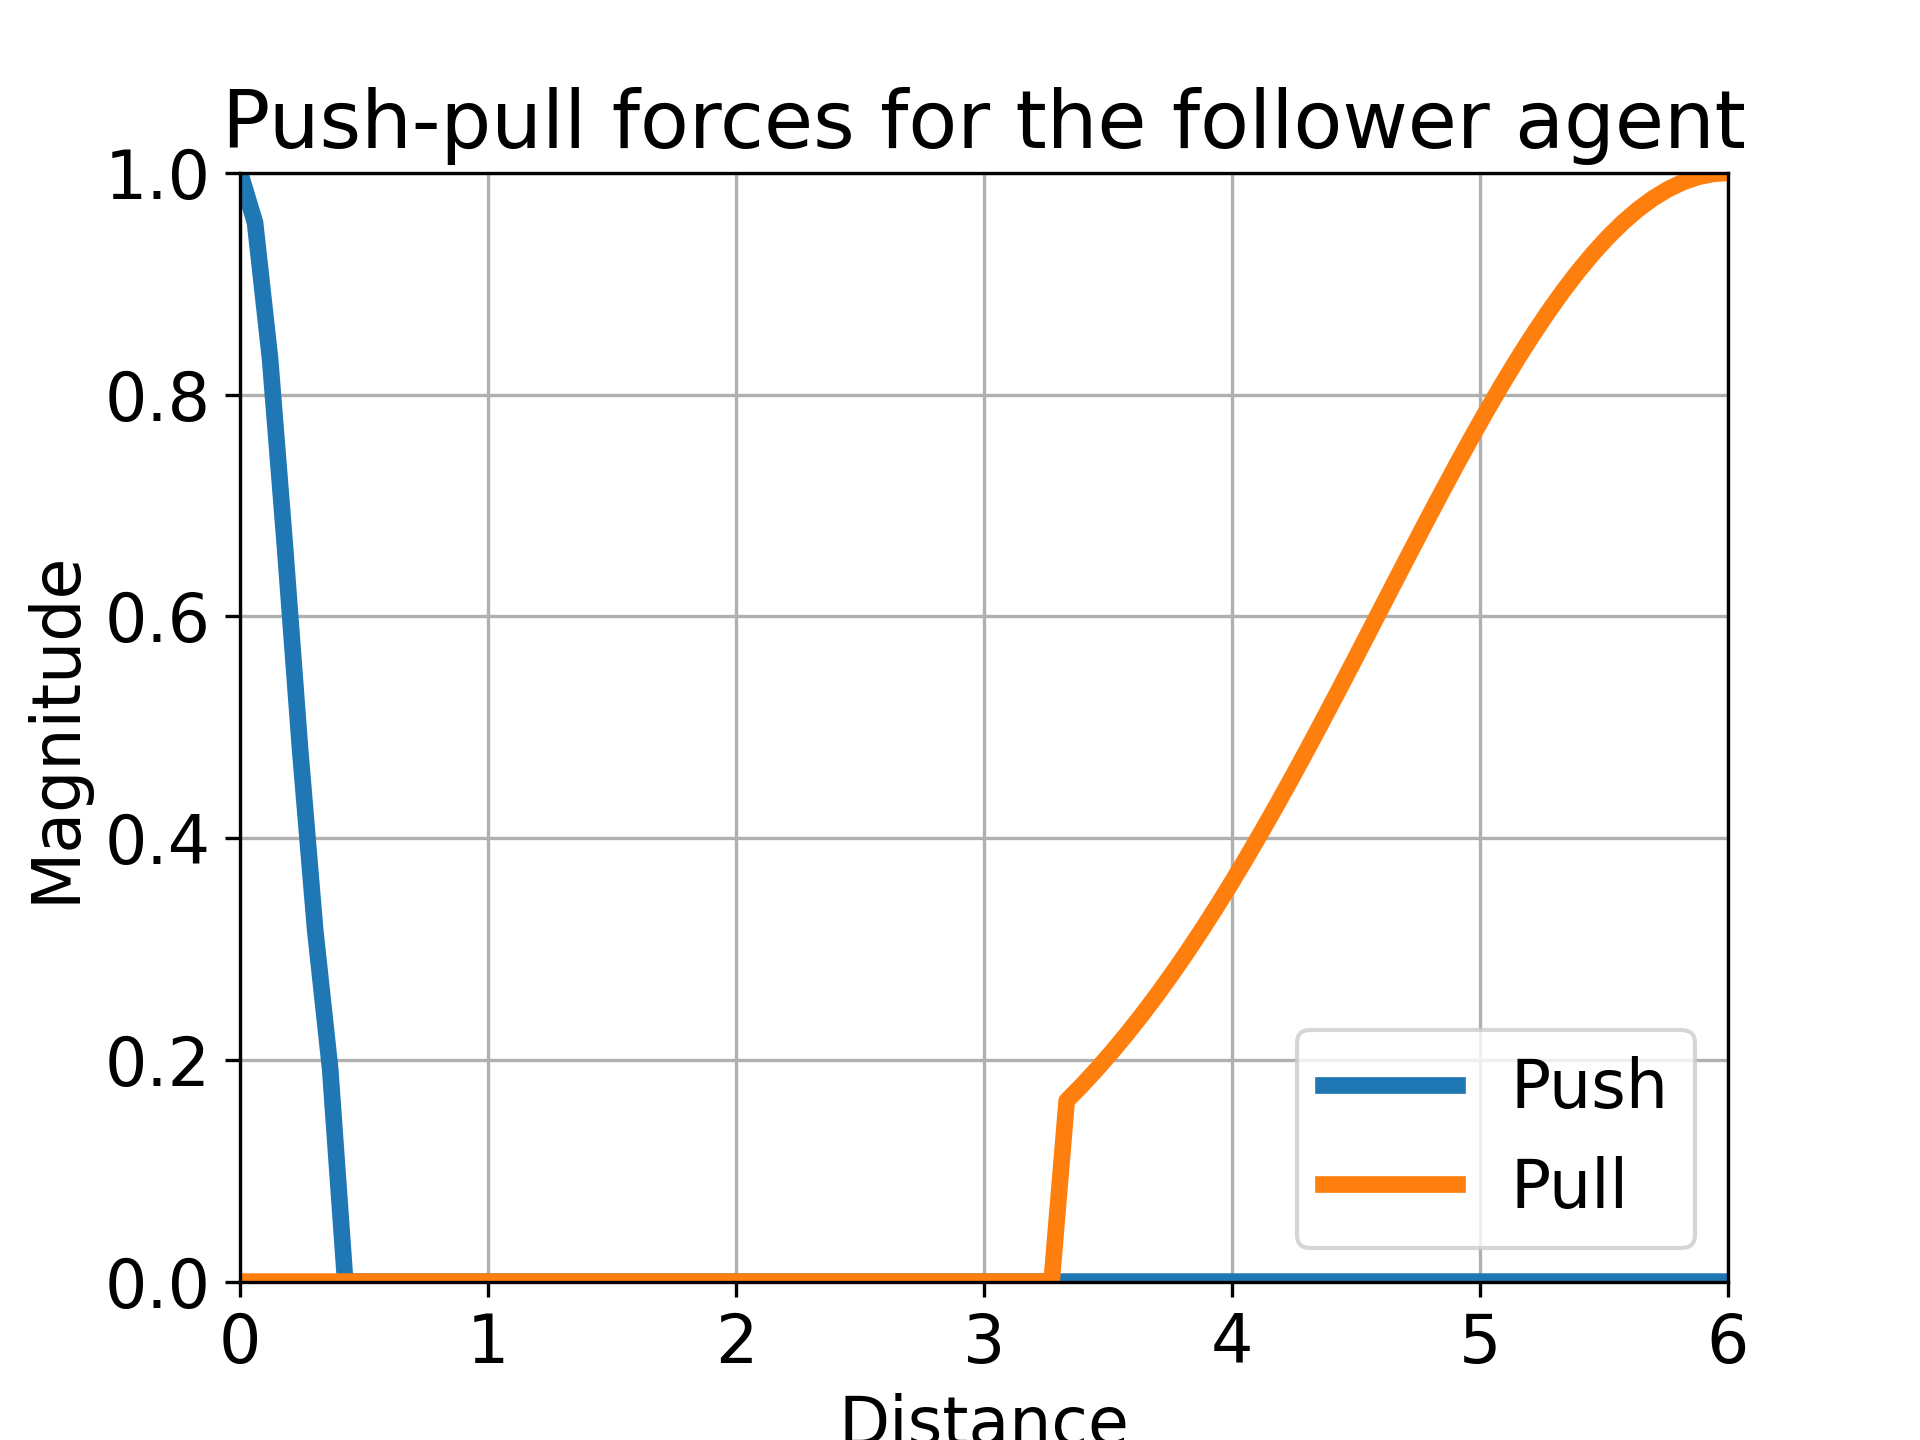
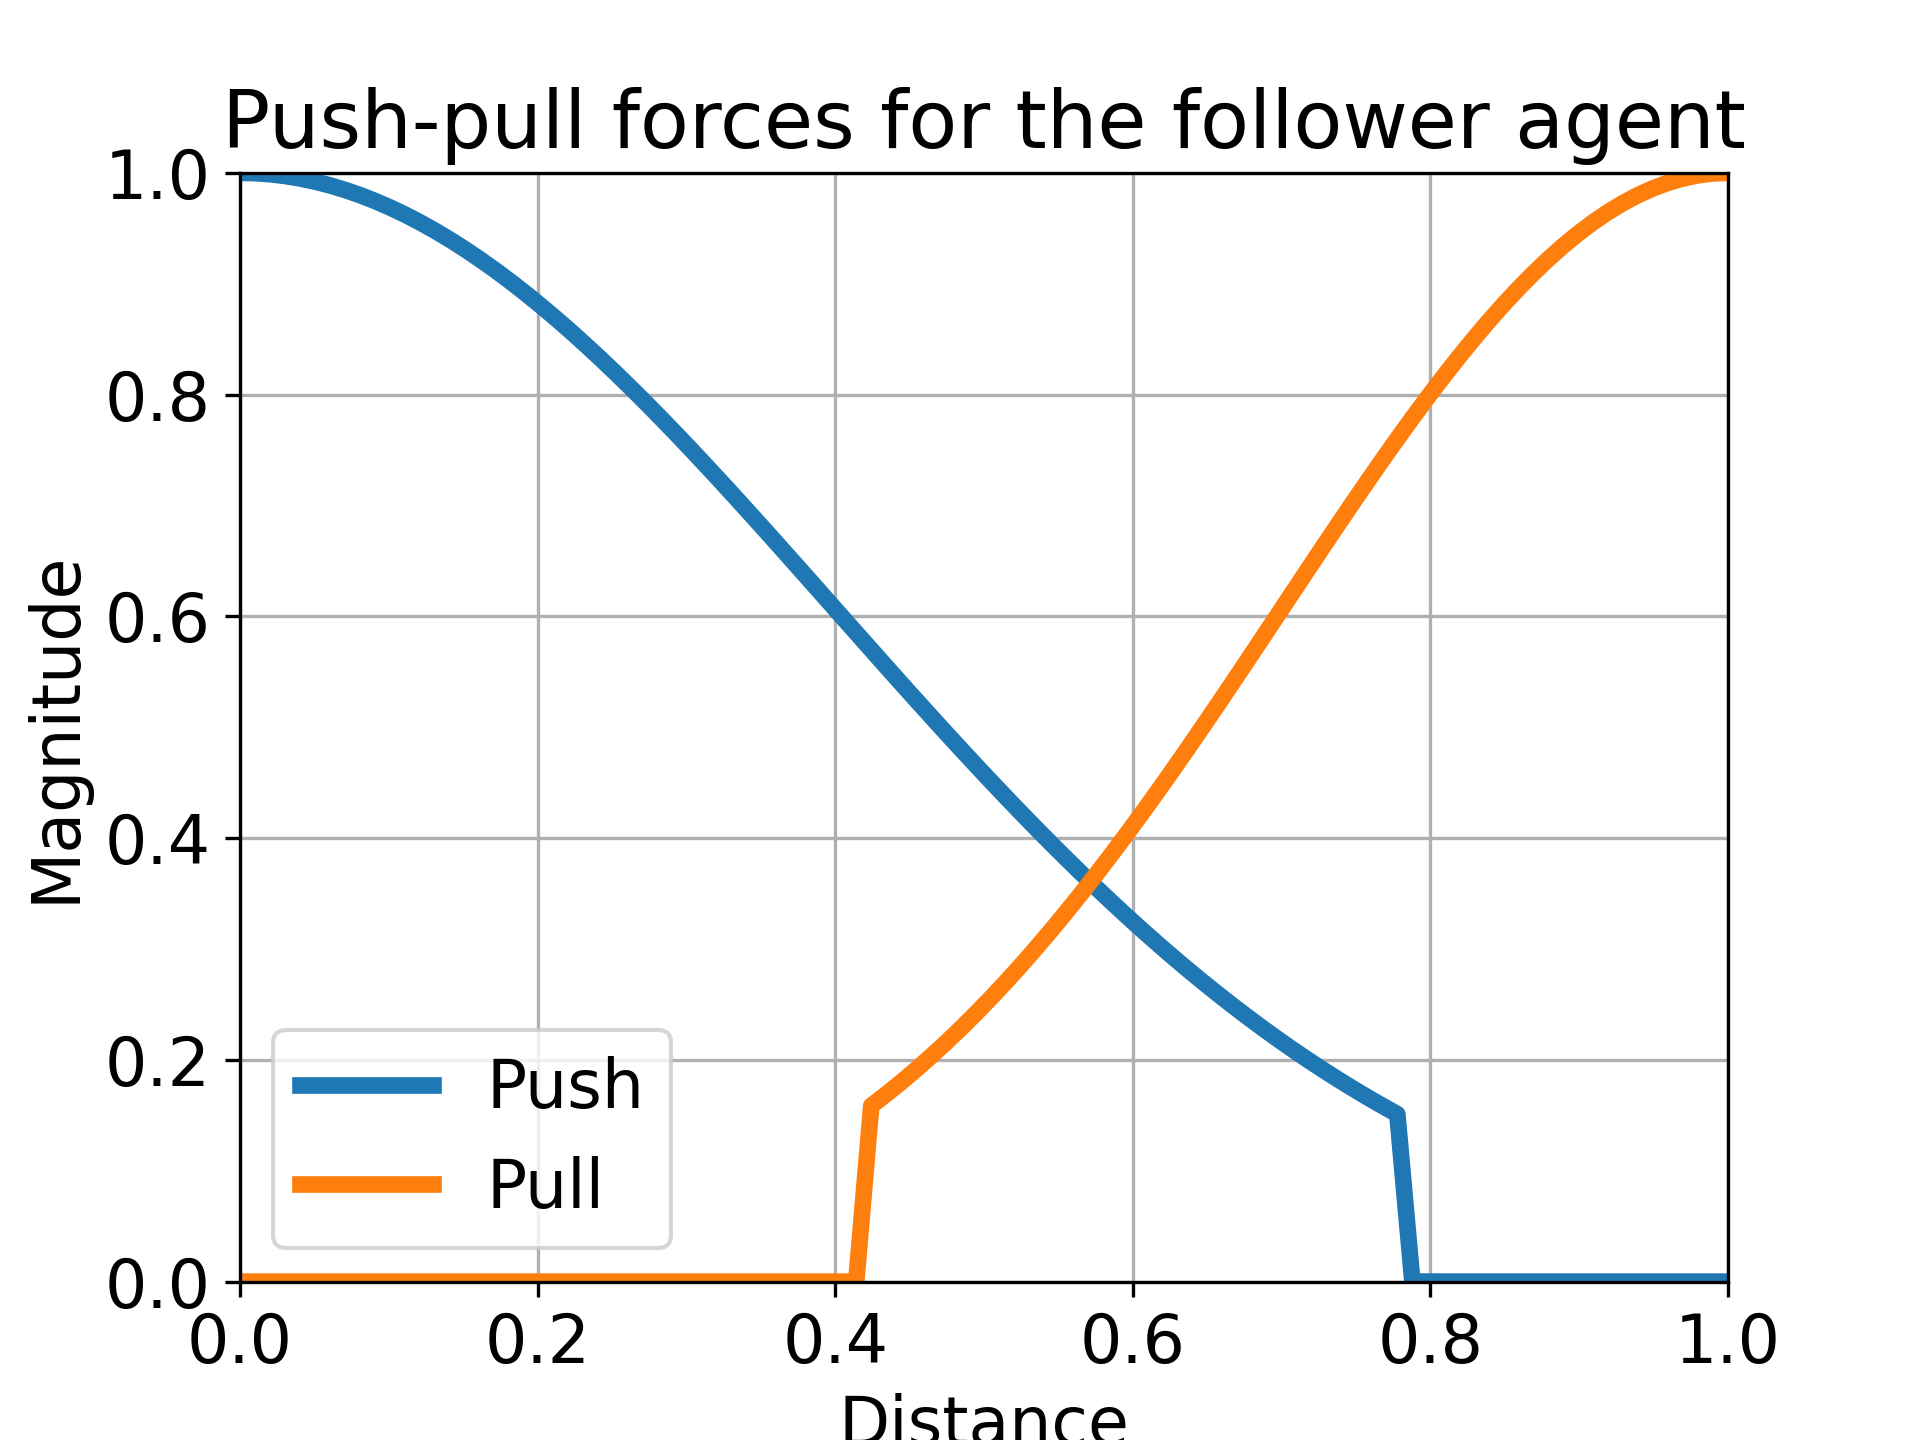
Tuning the parameters, added way to add priority to push and pull forces

diff --git a/experiments/controllers/footbot_follow/footbot_follow.cpp b/experiments/controllers/footbot_follow/footbot_follow.cpp
@@ -101,7 +101,7 @@ void FootbotFollow::ControlStep() {
 
     for (int i = 0; i <= 23; ++i) {
         if (!QLMathUtils::closeToZero(proxReadings.at(i).Value)) {
-            fpushVector += QLMathUtils::readingToVector(proxReadings.at(i).Value, proxReadings.at(i).Angle,
+            fpushVector -= QLMathUtils::readingToVector(proxReadings.at(i).Value, proxReadings.at(i).Angle,
                                                         A, B_PUSH, C_PUSH, QLMathUtils::proxToDistance);
             maxProx = std::max(maxProx, fpushVector.Length());
         }
@@ -109,8 +109,11 @@ void FootbotFollow::ControlStep() {
             i = 18;
         }
     }
-
-    CVector2 directionVector = fpullVector - fpushVector;
+    double pullVectorLength = (fpullVector.Length() > 1) ? 1 : fpullVector.Length();
+    double pushVectorLength = (fpushVector.Length() > 1) ? 1 : fpushVector.Length();
+    fpullVector = CVector2(pullVectorLength, fpullVector.Angle());
+    fpushVector = CVector2(pushVectorLength, fpushVector.Angle());
+    CVector2 directionVector = ALPHA_PULL * fpullVector + BETA_PUSH * fpushVector;
     bool isDirZero = QLMathUtils::closeToZero(directionVector.Length());
 
     bool isTargetSeen = minDistanceBlob.Distance != 1000.0f;
@@ -123,8 +126,8 @@ void FootbotFollow::ControlStep() {
                       QLMathUtils::angleInDegrees(directionVector.Angle()) >= -SIDE_ANGLE && !isDirZero;
     bool isIdle = isDirZero && isTargetSeen;
 
-    bool negateVelocity = true;
     std::string actualState;
+    double velocityFactor = 1;
     // States
     if (isWander) {
         actualState = "WANDER";
@@ -133,15 +136,17 @@ void FootbotFollow::ControlStep() {
     } else if (isFollow) {
         actualState = "FOLLOW";
         state = 1;
-        negateVelocity = false;
+        velocityFactor = directionVector.Length();
         mLed->SetAllColors(CColor::YELLOW);
     } else if (isDirLeft) {
         actualState = "DIR_LEFT";
         state = 2;
+        velocityFactor = directionVector.Length();
         mLed->SetAllColors(CColor::WHITE);
     } else if (isDirRight) {
         actualState = "DIR_RIGHT";
         state = 3;
+        velocityFactor = directionVector.Length();
         mLed->SetAllColors(CColor::WHITE);
     } else if (isIdle) {
         actualState = "IDLE";
@@ -176,7 +181,6 @@ void FootbotFollow::ControlStep() {
 
     mPrevState = state;
 
-    double velocityFactor = (negateVelocity) ? 1 : directionVector.Length();
     std::array<double, 2> action = QLUtils::getActionFromIndex(actionIndex, parWheelVelocity);
     std::string actionName = QLUtils::getActionName(action[0], action[1]);
     mDiffSteering->SetLinearVelocity(action[0] * velocityFactor, action[1] * velocityFactor);

diff --git a/experiments/loop_functions/manual_control/manual_qtuser_functions.cpp b/experiments/loop_functions/manual_control/manual_qtuser_functions.cpp
@@ -9,6 +9,7 @@ CManualControlQTUserFunctions::CManualControlQTUserFunctions() :
     m_punPressedKeys[DIRECTION_BACKWARD] = 0;
     m_punPressedKeys[DIRECTION_LEFT] = 0;
     m_punPressedKeys[DIRECTION_RIGHT] = 0;
+    RegisterUserFunction<CManualControlQTUserFunctions,CFootBotEntity>(&CManualControlQTUserFunctions::Draw);
 }
 
 void CManualControlQTUserFunctions::KeyPressed(QKeyEvent *pc_event) {
@@ -77,6 +78,16 @@ void CManualControlQTUserFunctions::KeyReleased(QKeyEvent *pc_event) {
             GetQTOpenGLWidget().KeyReleased(pc_event);
             break;
     }
+}
+
+void CManualControlQTUserFunctions::Draw(CFootBotEntity& c_entity) {
+    /* The position of the text is expressed wrt the reference point of the footbot
+     * For a foot-bot, the reference point is the center of its base.
+     * See also the description in
+     * $ argos3 -q foot-bot
+     */
+    DrawText(CVector3(0.0, 0.0, 0.3),   // position
+             c_entity.GetId().c_str(), CColor::RED); // text
 }
 
 void CManualControlQTUserFunctions::EntitySelected(CEntity &c_entity) {

diff --git a/proto/plots/plot_push_pull.py b/proto/plots/plot_push_pull.py
@@ -11,13 +11,14 @@ mpl.rcParams['xtick.color'] = BLACK
 mpl.rcParams['ytick.color'] = BLACK
 mpl.rcParams['lines.linewidth'] = 4
 
-x_plt = np.linspace(0, 6, num=100)
+
 B_PUSH = 0  # The robot's centre
-B_PULL = 6  # The prox sensor's coverage limit
-C_PUSH = 0.2  # width of the gauss curve
-C_PULL = 1.4
+B_PULL = 1
+C_PUSH = 0.4  # width of the gauss curve
+C_PULL = 0.3
 cut_off = 0.15
 A = 1  # height of the gauss curve
+x_plt = np.linspace(0, B_PULL, num=100)
 
 num_push = - (x_plt - B_PUSH) ** 2
 denum_push = 2 * C_PUSH ** 2
@@ -34,7 +35,7 @@ pull_plot = plt.plot(x_plt, y_pull, label="Pull")
 plt.xlabel("Distance")
 plt.ylabel("Magnitude")
 plt.ylim(ymin=0, ymax=1)
-plt.xlim(xmin=0, xmax=6)
+plt.xlim(xmin=0, xmax=B_PULL)
 plt.title('Push-pull forces for the follower agent')
 
 plt.grid()

diff --git a/experiments/controllers/footbot_follow/footbot_follow.h b/experiments/controllers/footbot_follow/footbot_follow.h
@@ -62,14 +62,17 @@ private:
 
     constexpr int static STATE_THRESHOLD = 30;
 
+    constexpr double static ALPHA_PULL = 0.3f;
+    constexpr double static BETA_PUSH = 0.7f;
+
     // The push gauss curve's centre point is the robot
     constexpr double static B_PUSH = 0.0f;
     // The pull gauss curve's centre point is the prox sensor's coverage limit
-    constexpr double static B_PULL = 6.0f;
+    constexpr double static B_PULL = 1.0f;
     // Width of the gauss curve for pushing forces
-    constexpr double static C_PUSH = 0.2f;
+    constexpr double static C_PUSH = 0.4;
     // Width of the gauss curve for pulling forces
-    constexpr double static C_PULL = 1.4f;
+    constexpr double static C_PULL = 0.3f;
     // Height of the gauss curve
     constexpr double static A = 1.0f;
 

diff --git a/experiments/loop_functions/manual_control/manual_qtuser_functions.h b/experiments/loop_functions/manual_control/manual_qtuser_functions.h
@@ -15,6 +15,7 @@
 
 #include <argos3/plugins/simulator/visualizations/qt-opengl/qtopengl_user_functions.h>
 #include <controllers/footbot_manual/footbot_manual.h>
+#include <argos3/plugins/robots/foot-bot/simulator/footbot_entity.h>
 
 using namespace argos;
 
@@ -59,6 +60,8 @@ public:
     * @param c_entity The deselected entity.
     */
    virtual void EntityDeselected(CEntity& c_entity);
+
+    void Draw(CFootBotEntity& c_entity);
 
 private:
 

diff --git a/experiments/qlearner/ql_math_utils.hpp b/experiments/qlearner/ql_math_utils.hpp
@@ -36,7 +36,7 @@ namespace ql {
         }
 
         static double cameraToDistance(double reading) {
-            return (reading / CAMERA_READING_MAX_VALUE) * 6;
+            return (reading / CAMERA_READING_MAX_VALUE);
         }
 
         static double proxToDistance(double reading) {

diff --git a/experiments/controllers/footbot_infect_rw/footbot_infect_rw.cpp b/experiments/controllers/footbot_infect_rw/footbot_infect_rw.cpp
@@ -139,6 +139,7 @@ void InfectRandomWalk::ControlStep() {
         case REMOVED:
             agentColor = CColor::GRAY50;
             actionIndex = 0;
+            mCamera->Disable();
             break;
     }
     mLed->SetAllColors(agentColor);
